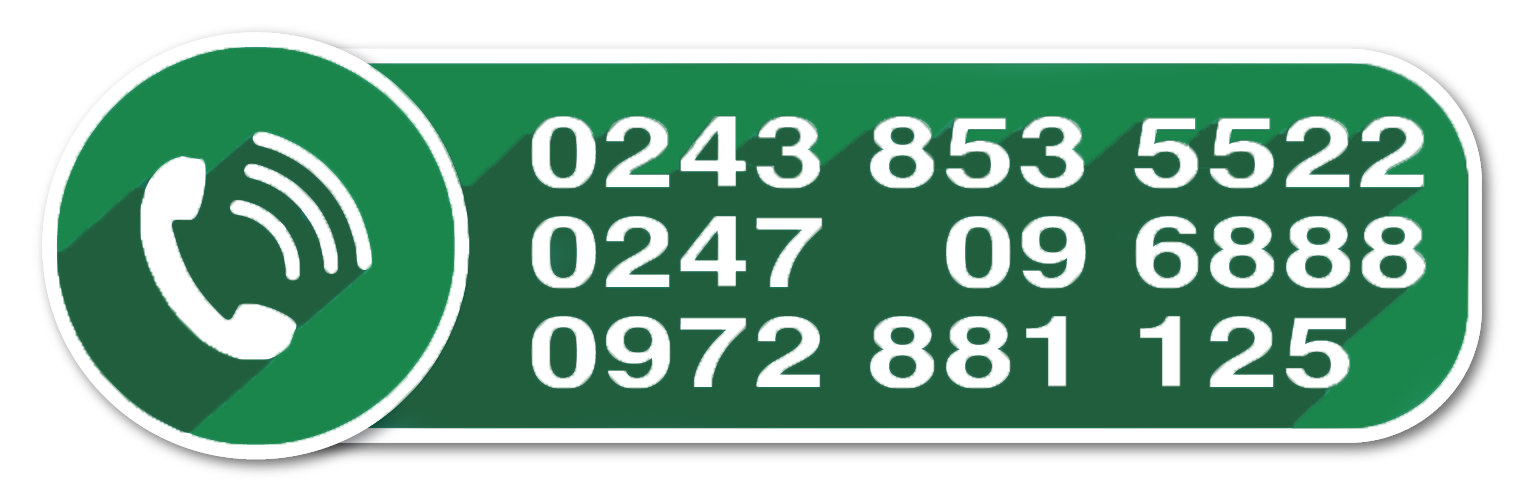
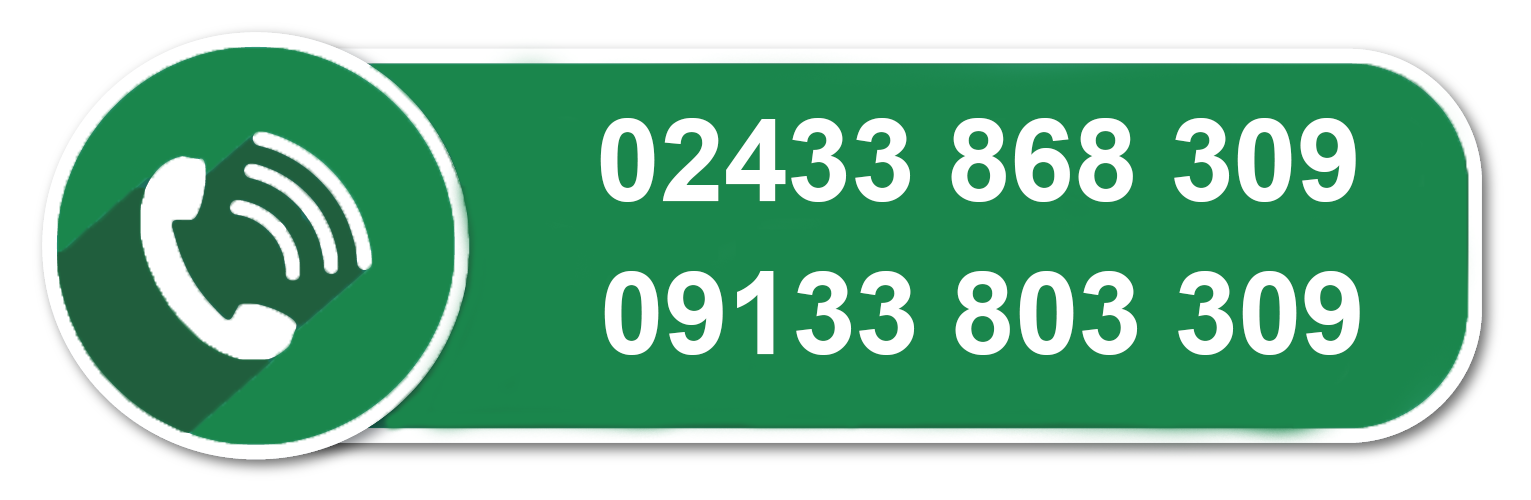
encoding

diff --git a/resources/views/sites/_include/footer.blade.php b/resources/views/sites/_include/footer.blade.php
@@ -7,25 +7,25 @@
                 <h5 class='title'><i class="fa fa-home">&nbsp;&nbsp;</i>PHÒNG KHÁM MIKA</h5>
                 <ul>
                     <li><i class="fa fa-map-marker">&nbsp;&nbsp;</i>Địa chỉ: Chúc Sơn - Chương Mỹ - Hà Nội</li>
-                    <li><i class="fa fa-clock-o">&nbsp;&nbsp;</i>Giờ làm việc: Từ 8:30 - 20:00</li>
-                    <li><i class="fa fa-volume-control-phone">&nbsp;&nbsp;</i>Hotline: 111111111111</li>
-                    <li><i class="fa fa-envelope-o">&nbsp;&nbsp;</i>Email: kingofthenorth@gmail.com</li>
+                    <li><i class="fa fa-clock-o">&nbsp;&nbsp;</i>Giờ làm việc: Thời gian làm việc: Sáng : 7-12h , chiều 13h30 - 19h, tất cả các ngày trong tuần.</li>
+                    <li><i class="fa fa-volume-control-phone">&nbsp;&nbsp;</i>Liên hệ: 02433 868 309 - 09133 803 309</li>
+                    <li><i class="fa fa-envelope-o">&nbsp;&nbsp;</i>Email: phongkhammika@gmail.com</li>
                 </ul>
-                <h6>
+                {{-- <h6>
                     <i class="fa fa-phone-square">&nbsp;</i> TỔNG ĐÀI CHĂM SÓC KHÁCH HÀNG:
-                    <h6><strong>9083.2323.223</strong></h6>
-                </h6>
+                    <h6><strong>02433 868 309 - 09133 803 309</strong></h6>
+                </h6> --}}
             </div >
             <div class="col sm-3">
                 <iframe id='facebook' src="https://www.facebook.com/plugins/page.php?href=https%3A%2F%2Fwww.facebook.com%2FVui-l%C3%A0-ch%C3%ADnh-328549040576766%2F&tabs=timeline&width=340&height=500&small_header=false&adapt_container_width=true&hide_cover=false&show_facepile=true&appId=178392078930244" height='300px' style="border:none;overflow:hidden" scrolling="no" frameborder="0" allowTransparency="true"></iframe>
             </div>
             <div class="col-sm-5">
-                <iframe id='google-map'
+              <iframe id='google-map'
                 height="300px"
                 frameborder="0" style="border:0"
                 src="https://www.google.com/maps/embed/v1/place?key=AIzaSyAO63kLiZuw39FmCvpLmuTVD-RvtuRtFmU
-                &q=Space+Needle,Seattle+WA" allowfullscreen>
-            </iframe>
+                &q=Phòng khám Mika, ĐT419,Chúc Lý, tt. Chúc Sơn,Chương Mỹ,Hà Nội,Việt Nam, TT. Chúc Sơn, Chương Mỹ, Hà Nội , Vietnam" allowfullscreen>
+              </iframe>
         </div>
     </div>
     <div class="row">
@@ -33,7 +33,7 @@
         <div class="nb-form">
             <p class="title">Để lại tin nhắn cho phòng khám</p>
             <img src="images/messages-icon.png" alt="" class="user-icon">
-            <p class="message">Số điện thoại liên hệ: <strong>093858503</strong></p>
+            <p class="message">Số điện thoại liên hệ: <strong>02433 868 309 - 09133 803 309</strong></p>
 
             <form method="POST" action="{{ route('contact.store') }}">
                 {{ csrf_field() }}

diff --git a/resources/views/sites/_components/userVideo.blade.php b/resources/views/sites/_components/userVideo.blade.php
@@ -3,6 +3,7 @@
 @include('sites._include.navbar')
 @include('sites._include.banner')
 <div class="page-content">
+  <input type="hidden" name="baseurl" value="{{ url('/') }}">
     <div class="container main">
         <div class="intro">
           <h2>VIDEO SIÊU ÂM</h2>
@@ -23,7 +24,7 @@
                 </tr>
                 <tr>
                   <td><strong>Tuổi:</strong></td>
-                  <td>19</td>
+                  <td>{{ $user->age }}</td>
                 </tr>
                 <tr>
                   <td><strong>Số điện thoại:</strong></td>
@@ -53,10 +54,10 @@
                 @foreach($user->histories as $key => $history)
                 <tr>
                   <td>{{$history->date_examination}}</td>
-                  <td><a class='a-player' href="#" data-blink="{{ $key }}" data-src="http://sanchoi.net/{{$history->media->path . $history->media->name . '.' . $history->media->type }}">Video {{$key}}</a></td>
+                  <td><a class='a-player' href="#" data-blink="{{ $key }}" data-src="{{ url('/') }}/<?php echo str_replace("public/","",$history->media->path); ?>{{$history->media->name . '.' . $history->media->type }}">Video {{$key}}</a></td>
                   <td><i id="{{ $key }}" class="{{ $key == 0 ? 'fa fa-play blink' : '' }}"></i></td>
                   <td>
-                    <a  data-link="{{$history->media->path . $history->media->name . '.' . $history->media->type }}" class='downloadvideo btn btn-primary'><i class="fa fa-download" aria-hidden="true"></i>Tải về</a>
+                    <a  data-link="<?php echo str_replace("public/","",$history->media->path) ?>{{$history->media->name . '.' . $history->media->type }}" class='downloadvideo btn btn-primary'><i class="fa fa-download" aria-hidden="true"></i>Tải về</a>
                   </td>
                 </tr>
                 @endforeach
@@ -113,7 +114,8 @@
       })
 
       $('.downloadvideo').click(function() {
-        downloadDataUrlFromJavascript("sieuam", "http://sanchoi.net/" + $(this).data('link'));
+        let baseurl = $('#baseurl').val();
+        downloadDataUrlFromJavascript("sieuam", baseurl + '/' + $(this).data('link'));
       })
       // $('#player source').attr('src', 'http://sanchoi.net/video/2017/10/20171005-044140-3.mov')
     })

diff --git a/resources/views/admin/patients/detailxx.blade.php b/resources/views/admin/patients/detailxx.blade.php
@@ -1,6 +1,7 @@
 @extends('admin.master')
 
 @section('content-admin')
+  <input type="hidden" name="baseurl" value="{{ url('/') }}">
 <div class="content-admin content-wrapper">
     <div class="panel ">
       @if(session('success'))
@@ -92,7 +93,8 @@
                             @foreach($patient->histories as $key => $history)
                               <tr>
                                 <td>{{$history->date_examination}}</td>
-                                <td><a class='a-player' href="#" data-blink="{{ $key }}" data-src="http://sanchoi.net/{{$history->media->path . $history->media->name . '.' . $history->media->type }}">Video {{$key}}</a></td>
+
+                                <td><a class='a-player' href="#" data-blink="{{ $key }}" data-src="{{url('/')}}/<?php echo str_replace("public/","",$history->media->path); ?>{{$history->media->name . '.' . $history->media->type }}">Video {{$key}}</a></td>
                                 <td><i id="{{ $key }}" class="{{ $key == 0 ? 'fa fa-play blink' : '' }}"></i></td>
                                 @if(Auth::user()->permission == 1)
                                 <td>
@@ -170,7 +172,7 @@
                                             <input id="file" type="file" name="video" class="form-control">
                                         </div>
                                     </div>
-                                  @endif  
+                                  @endif
                                   {{-- content --}}
                                     <div class="form-group">
                                       <label for=""> Nội dung </label>
@@ -204,8 +206,9 @@
         $("button[data-toggle='modal']").click(function() {
           let history_id = $(this).data('history-id');
           let content = $(this).data('content');
+          let baseurl = $('#baseurl').val();
           $('#modal-content').val(content);
-        $('#modal-form').attr('action','http://localhost:8000/admin/media-medical/' + history_id);
+        $('#modal-form').attr('action', baseurl + '/admin/media-medical/' + history_id);
         })
         // load video onload
         var link  = $('.a-player').eq(0).attr("data-src")

diff --git a/resources/views/sites/lienhe/index.blade.php b/resources/views/sites/lienhe/index.blade.php
@@ -9,7 +9,7 @@
      height="500px"
      frameborder="0" style="border:0"
      src="https://www.google.com/maps/embed/v1/place?key=AIzaSyAO63kLiZuw39FmCvpLmuTVD-RvtuRtFmU
-       &q=Space+Needle,Seattle+WA" allowfullscreen>
+     &q=Phòng khám Mika, ĐT419,Chúc Lý, tt. Chúc Sơn,Chương Mỹ,Hà Nội,Việt Nam, TT. Chúc Sơn, Chương Mỹ, Hà Nội , Vietnam" allowfullscreen>
    </iframe>
     <div class="container main">
       <div class="row">
@@ -34,7 +34,7 @@
                   <label for="formGroupExampleInput">Họ và Tên</label>
                   <input type="text" name="name" class="form-control" id="formGroupExampleInput" placeholder="Vui lòng nhập họ và tên" required value="{{ old('name') }}">
                   @if ($errors->has('name'))
-                      <span class="help-block"> 
+                      <span class="help-block">
                            <strong>{{ $errors->first('name') }}</strong>
                       </span>
                   @endif
@@ -82,9 +82,8 @@
          </div>
 
          <ul>
-           <li><strong>Điện thoại: </strong>11113232</li>
-           <li><strong>Email: </strong>anything@gmail.com</li>
-           <li><strong>Website: </strong>This.website</li>
+           <li><strong>Điện thoại: </strong>02433 868 309 - 09133 803 309</li>
+           <li><strong>Email: </strong>phongkhammika@gmail.com</li>
            <li><strong>Địa chỉ: </strong>Chúc Sơn - Chương Mỹ - Hà Nội </li>
          </ul>
 

diff --git a/resources/views/sites/_include/navbar.blade.php b/resources/views/sites/_include/navbar.blade.php
@@ -6,7 +6,7 @@
     <span class="navbar-toggler-icon"></span>
   </button>
 
-  <a class="navbar-brand" href="{{ route('index') }}"><img src="images/logo2.png"  class='img-responsive' alt="" id="logo"></a>
+  <a class="navbar-brand" href="{{ route('index') }}"><img src="images/logo3.png"  class='img-responsive' alt="" id="logo"></a>
 
   <div class="collapse navbar-collapse nav-right nav-bar col-md-10 " id="navbarSupportedContent">
     <ul class="navbar-nav mr-auto pull-left">

diff --git a/app/Http/Controllers/Admin/PatientController.php b/app/Http/Controllers/Admin/PatientController.php
@@ -118,7 +118,12 @@ class PatientController extends Controller
     public function show($id)
     {
         $patient = $this->patient->find($id, []);
-
+        foreach ($patient->histories as $key => $history) {
+          if($history->media == null) {
+            $history->delete();
+          }
+        }
+        $patient = $this->patient->find($id, []);
         return view('admin.patients.detailxx', compact('patient'));
     }
 
